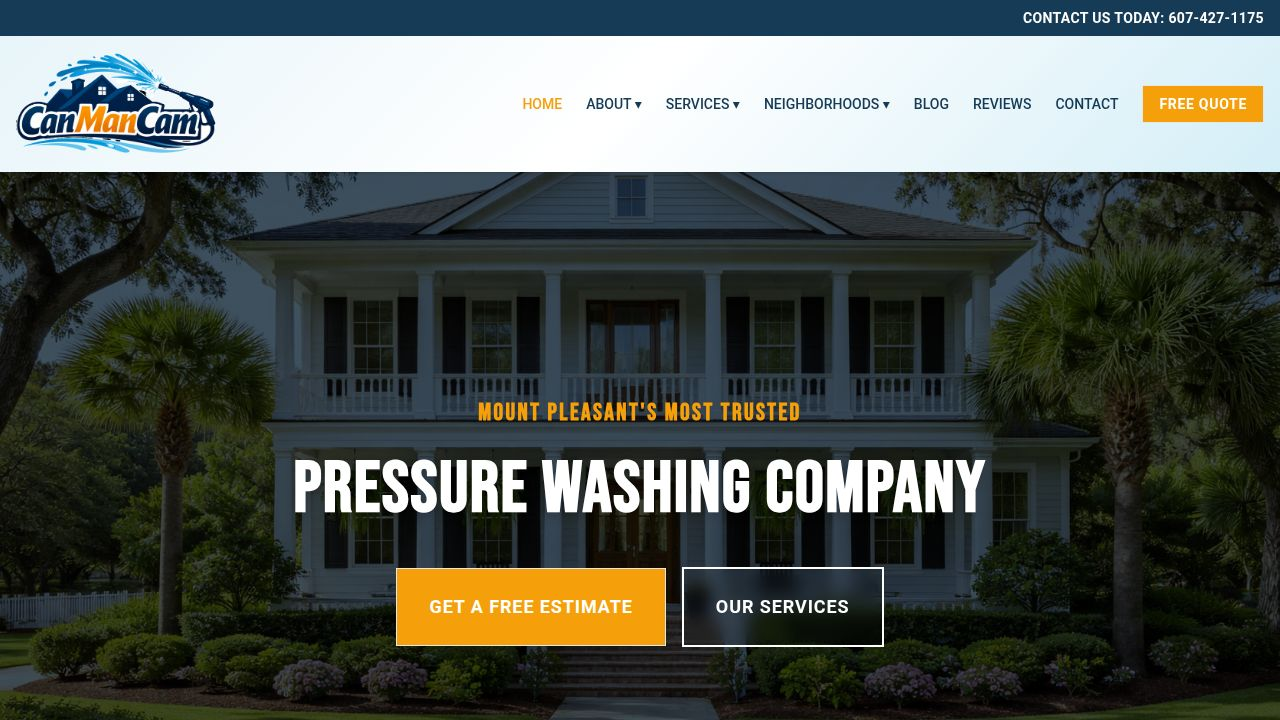
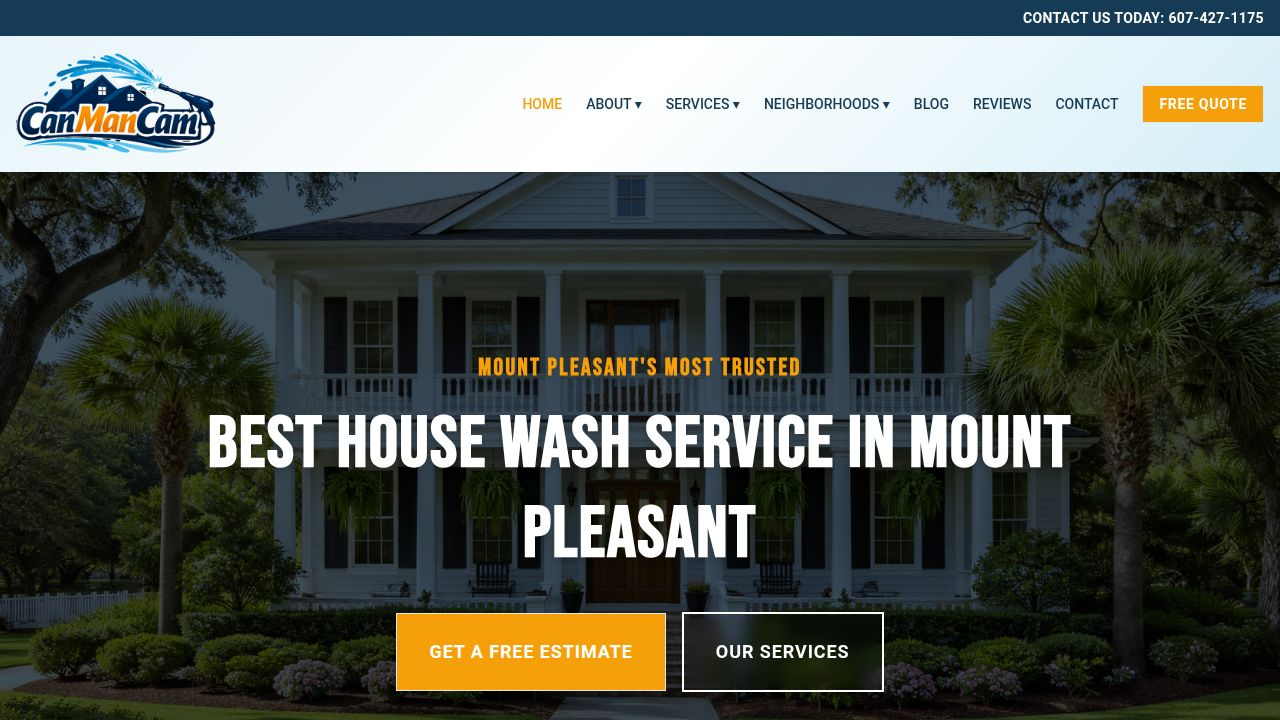
Update home page title to highlight best house washing services
Modify the main heading on the home page in `Home.tsx` to display "BEST HOUSE WASH SERVICE IN MOUNT PLEASANT".

Replit-Commit-Author: Agent
Replit-Commit-Session-Id: 960b4b52-d826-4fe3-8683-216dda01dbcb
Replit-Commit-Checkpoint-Type: full_checkpoint
Replit-Commit-Event-Id: 25f61756-a651-4c21-a682-8e7d72cfc7e2
Replit-Commit-Screenshot-Url: https://storage.googleapis.com/screenshot-production-us-central1/6be25bba-2da1-49a8-aa39-5b8ce1fddab5/960b4b52-d826-4fe3-8683-216dda01dbcb/mpUWjS0
Replit-Helium-Checkpoint-Created: true

Changed region(s): [[0.1562, 0.4889, 0.8438, 0.8556], [0.2812, 0.8861, 0.6875, 0.9778], [0.625, 0.9472, 0.6562, 0.9778]]

diff --git a/client/src/pages/Home.tsx b/client/src/pages/Home.tsx
@@ -81,7 +81,7 @@ export default function Home() {
             Mount Pleasant's Most Trusted
           </h2>
           <h1 className="text-5xl md:text-7xl font-heading font-bold mb-8 leading-tight drop-shadow-lg">
-            PRESSURE WASHING COMPANY
+            BEST HOUSE WASH SERVICE IN MOUNT PLEASANT
           </h1>
           <div className="flex flex-col md:flex-row gap-4 justify-center items-center">
             <Button 
